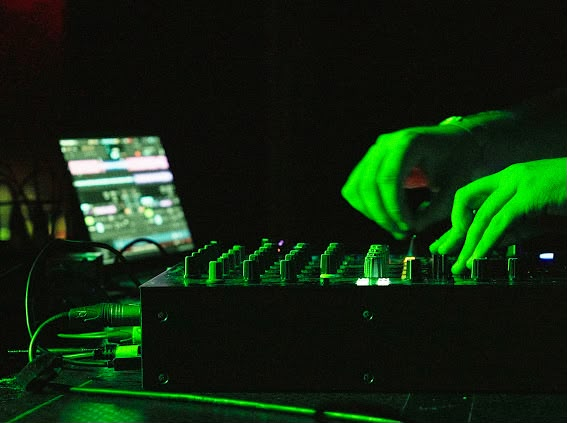
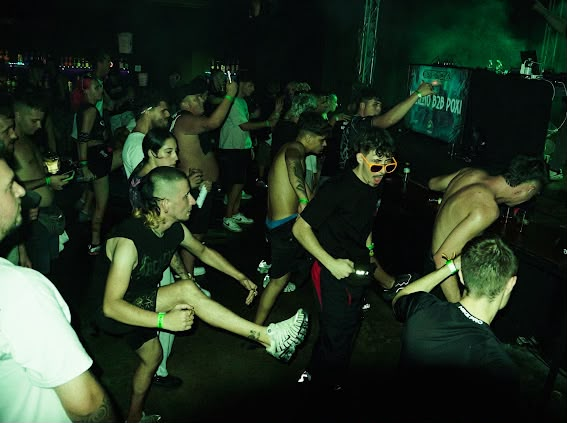
Update movimiento photo and reorder home gallery

diff --git a/index.html b/index.html
@@ -119,9 +119,9 @@
       <div class="section-label meta"><span>05 / Galería</span><span>Memory wall</span></div>
       <h2 id="memory-title" class="display">La gente.<br>Los recuerdos.</h2>
       <div class="memory-wall" data-gallery>
-        <figure class="memory-photo"><img src="assets/images/home/pista.jpeg" alt="Vista desde la cabina del DJ hacia el público de ESENCIA." width="567" height="423" loading="lazy" decoding="async"><figcaption class="meta">Pista.</figcaption></figure>
         <figure class="memory-photo"><img src="assets/images/home/amigos.jpeg" alt="Grupo de amigos posando juntos en un evento de ESENCIA." width="567" height="423" loading="lazy" decoding="async"><figcaption class="meta">Amigos.</figcaption></figure>
-        <figure class="memory-photo"><img src="assets/images/home/movimiento.jpeg" alt="Manos mezclando música en una mesa de DJ iluminada en verde." width="567" height="423" loading="lazy" decoding="async"><figcaption class="meta">Movimiento.</figcaption></figure>
+        <figure class="memory-photo"><img src="assets/images/home/movimiento.jpeg?v=2" alt="Personas bailando en la pista de un evento de ESENCIA." width="567" height="423" loading="lazy" decoding="async"><figcaption class="meta">Movimiento.</figcaption></figure>
+        <figure class="memory-photo"><img src="assets/images/home/pista.jpeg" alt="Vista desde la cabina del DJ hacia el público de ESENCIA." width="567" height="423" loading="lazy" decoding="async"><figcaption class="meta">Pista.</figcaption></figure>
       </div>
     </section>
 

diff --git a/js/data.js b/js/data.js
@@ -14,13 +14,6 @@ const ESENCIA_DATA = {
   // Fotos autorizadas: { src: "assets/images/gallery/foto.webp", alt: "...", caption: "...", width: 1200, height: 800 }
   gallery: [
   {
-    "src": "assets/images/home/pista.jpeg",
-    "alt": "Vista desde la cabina del DJ hacia el público de ESENCIA.",
-    "caption": "Pista.",
-    "width": 567,
-    "height": 423
-  },
-  {
     "src": "assets/images/home/amigos.jpeg",
     "alt": "Grupo de amigos posando juntos en un evento de ESENCIA.",
     "caption": "Amigos.",
@@ -28,9 +21,16 @@ const ESENCIA_DATA = {
     "height": 423
   },
   {
-    "src": "assets/images/home/movimiento.jpeg",
-    "alt": "Manos mezclando música en una mesa de DJ iluminada en verde.",
+    "src": "assets/images/home/movimiento.jpeg?v=2",
+    "alt": "Personas bailando en la pista de un evento de ESENCIA.",
     "caption": "Movimiento.",
+    "width": 567,
+    "height": 423
+  },
+  {
+    "src": "assets/images/home/pista.jpeg",
+    "alt": "Vista desde la cabina del DJ hacia el público de ESENCIA.",
+    "caption": "Pista.",
     "width": 567,
     "height": 423
   }
